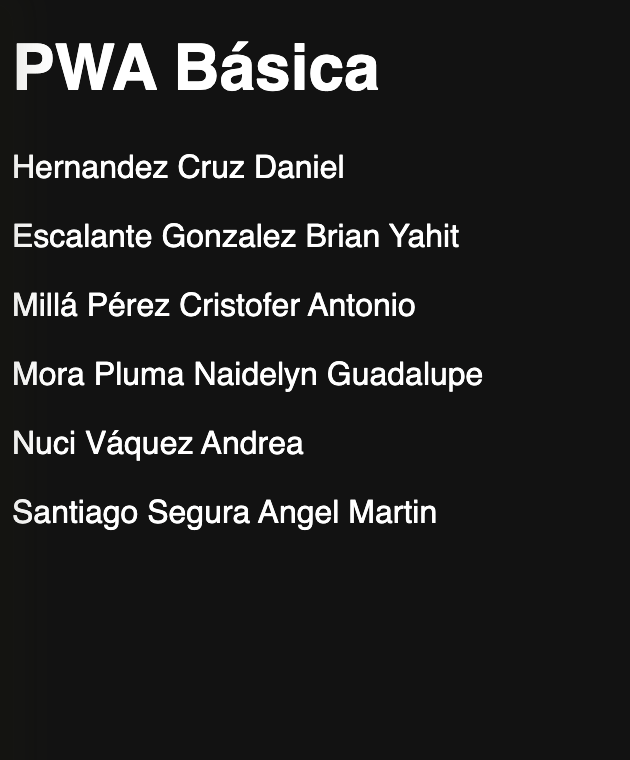
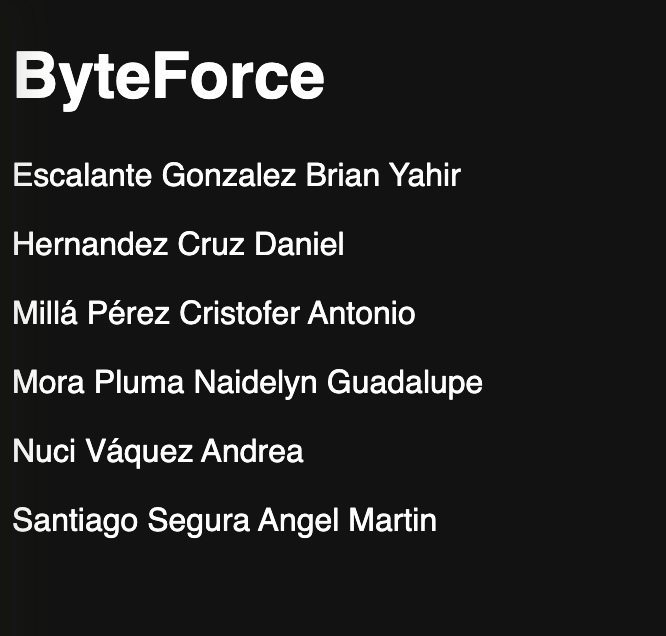
img cambiadas

diff --git a/pwab/sw.js b/pwab/sw.js
@@ -15,7 +15,7 @@
  * conoce como número menor y se cambia cuando se realizan
  * modificaciones menores.
  */
-const VERSION = "4.2"
+const VERSION = "4.02"
 
 /** Nombre del archivo de cache. */
 const CACHE = "ByteForcePWA"
